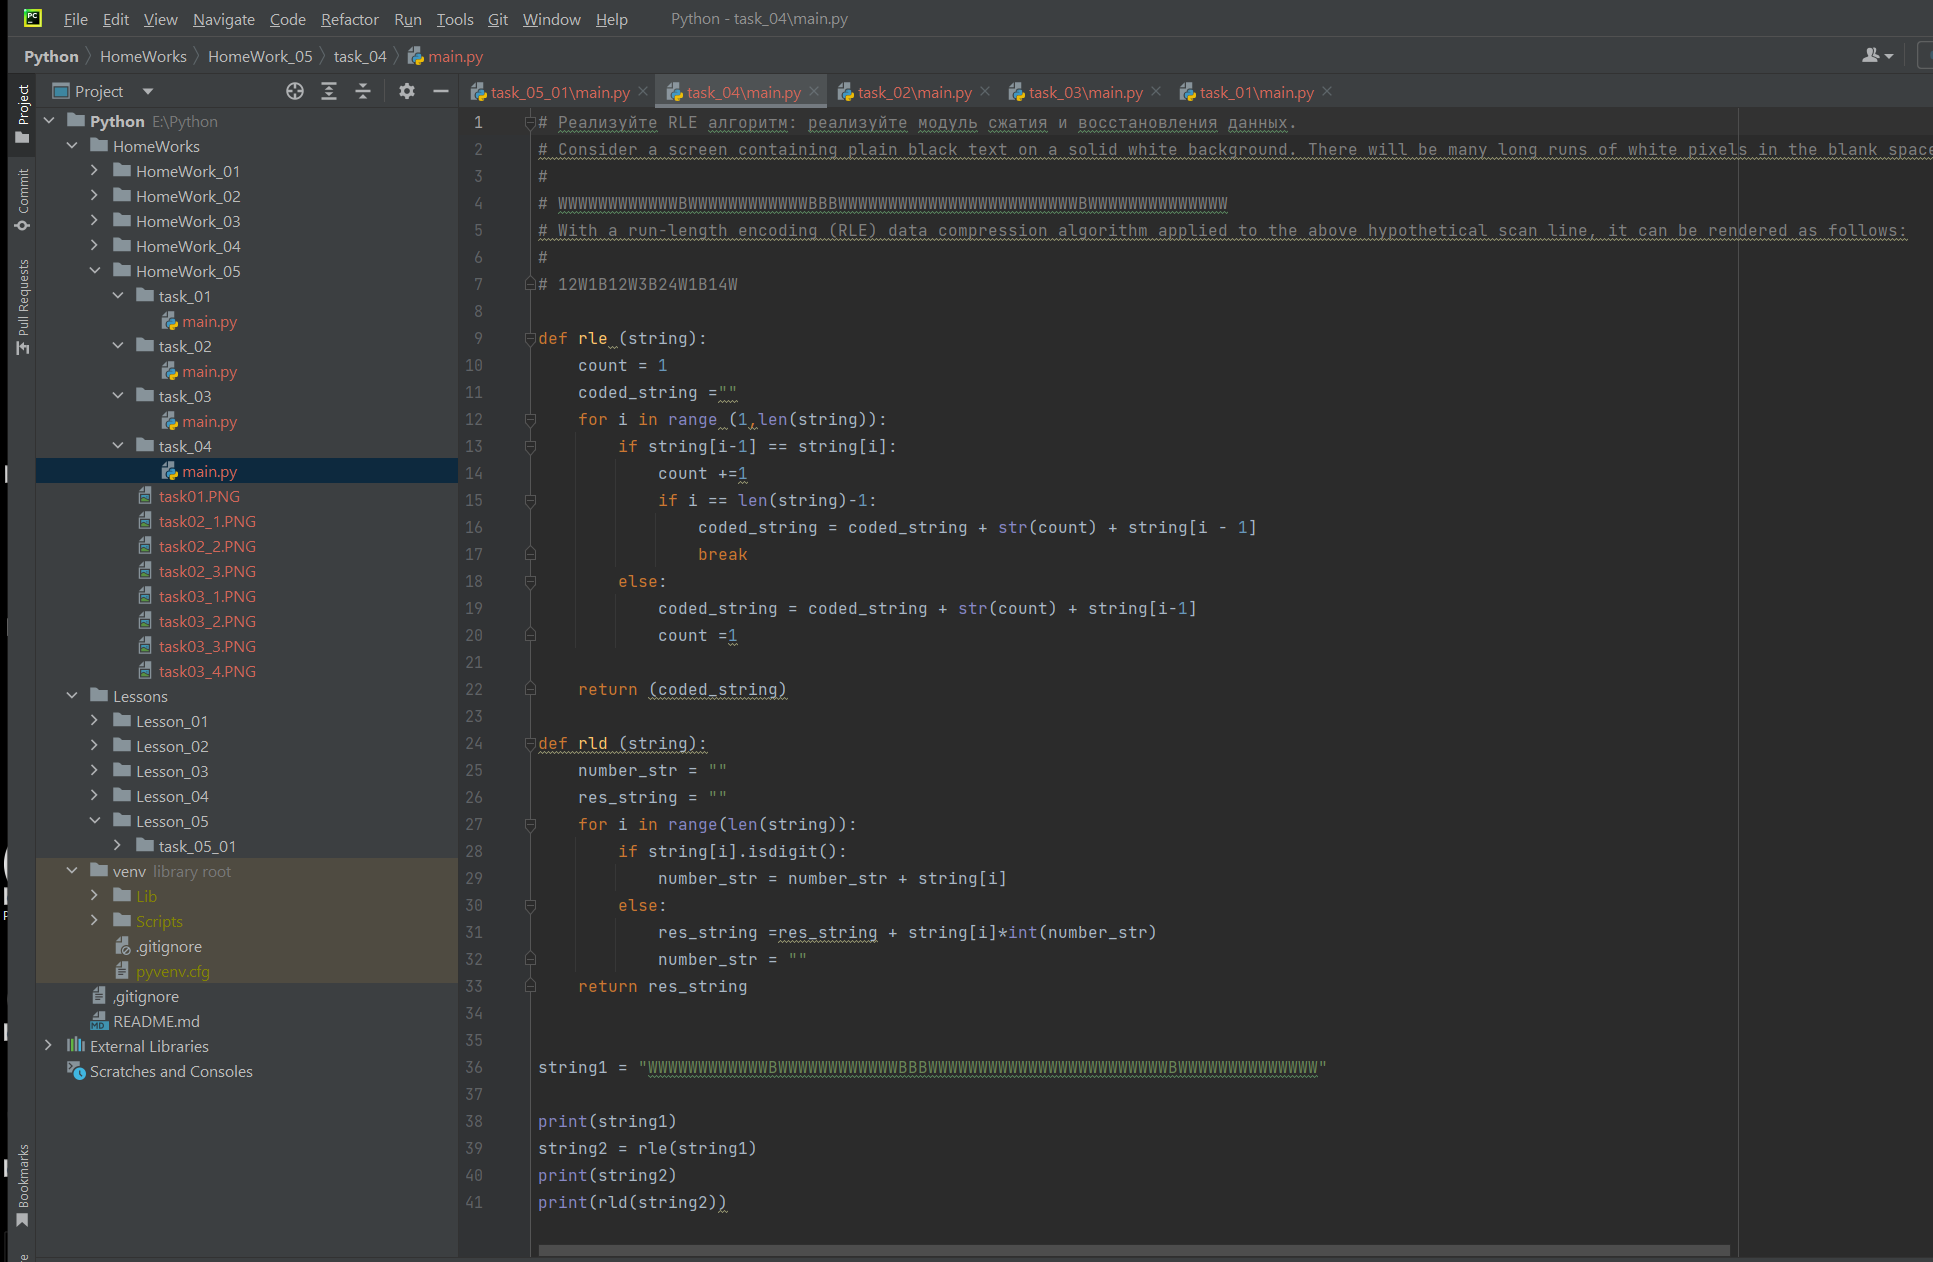
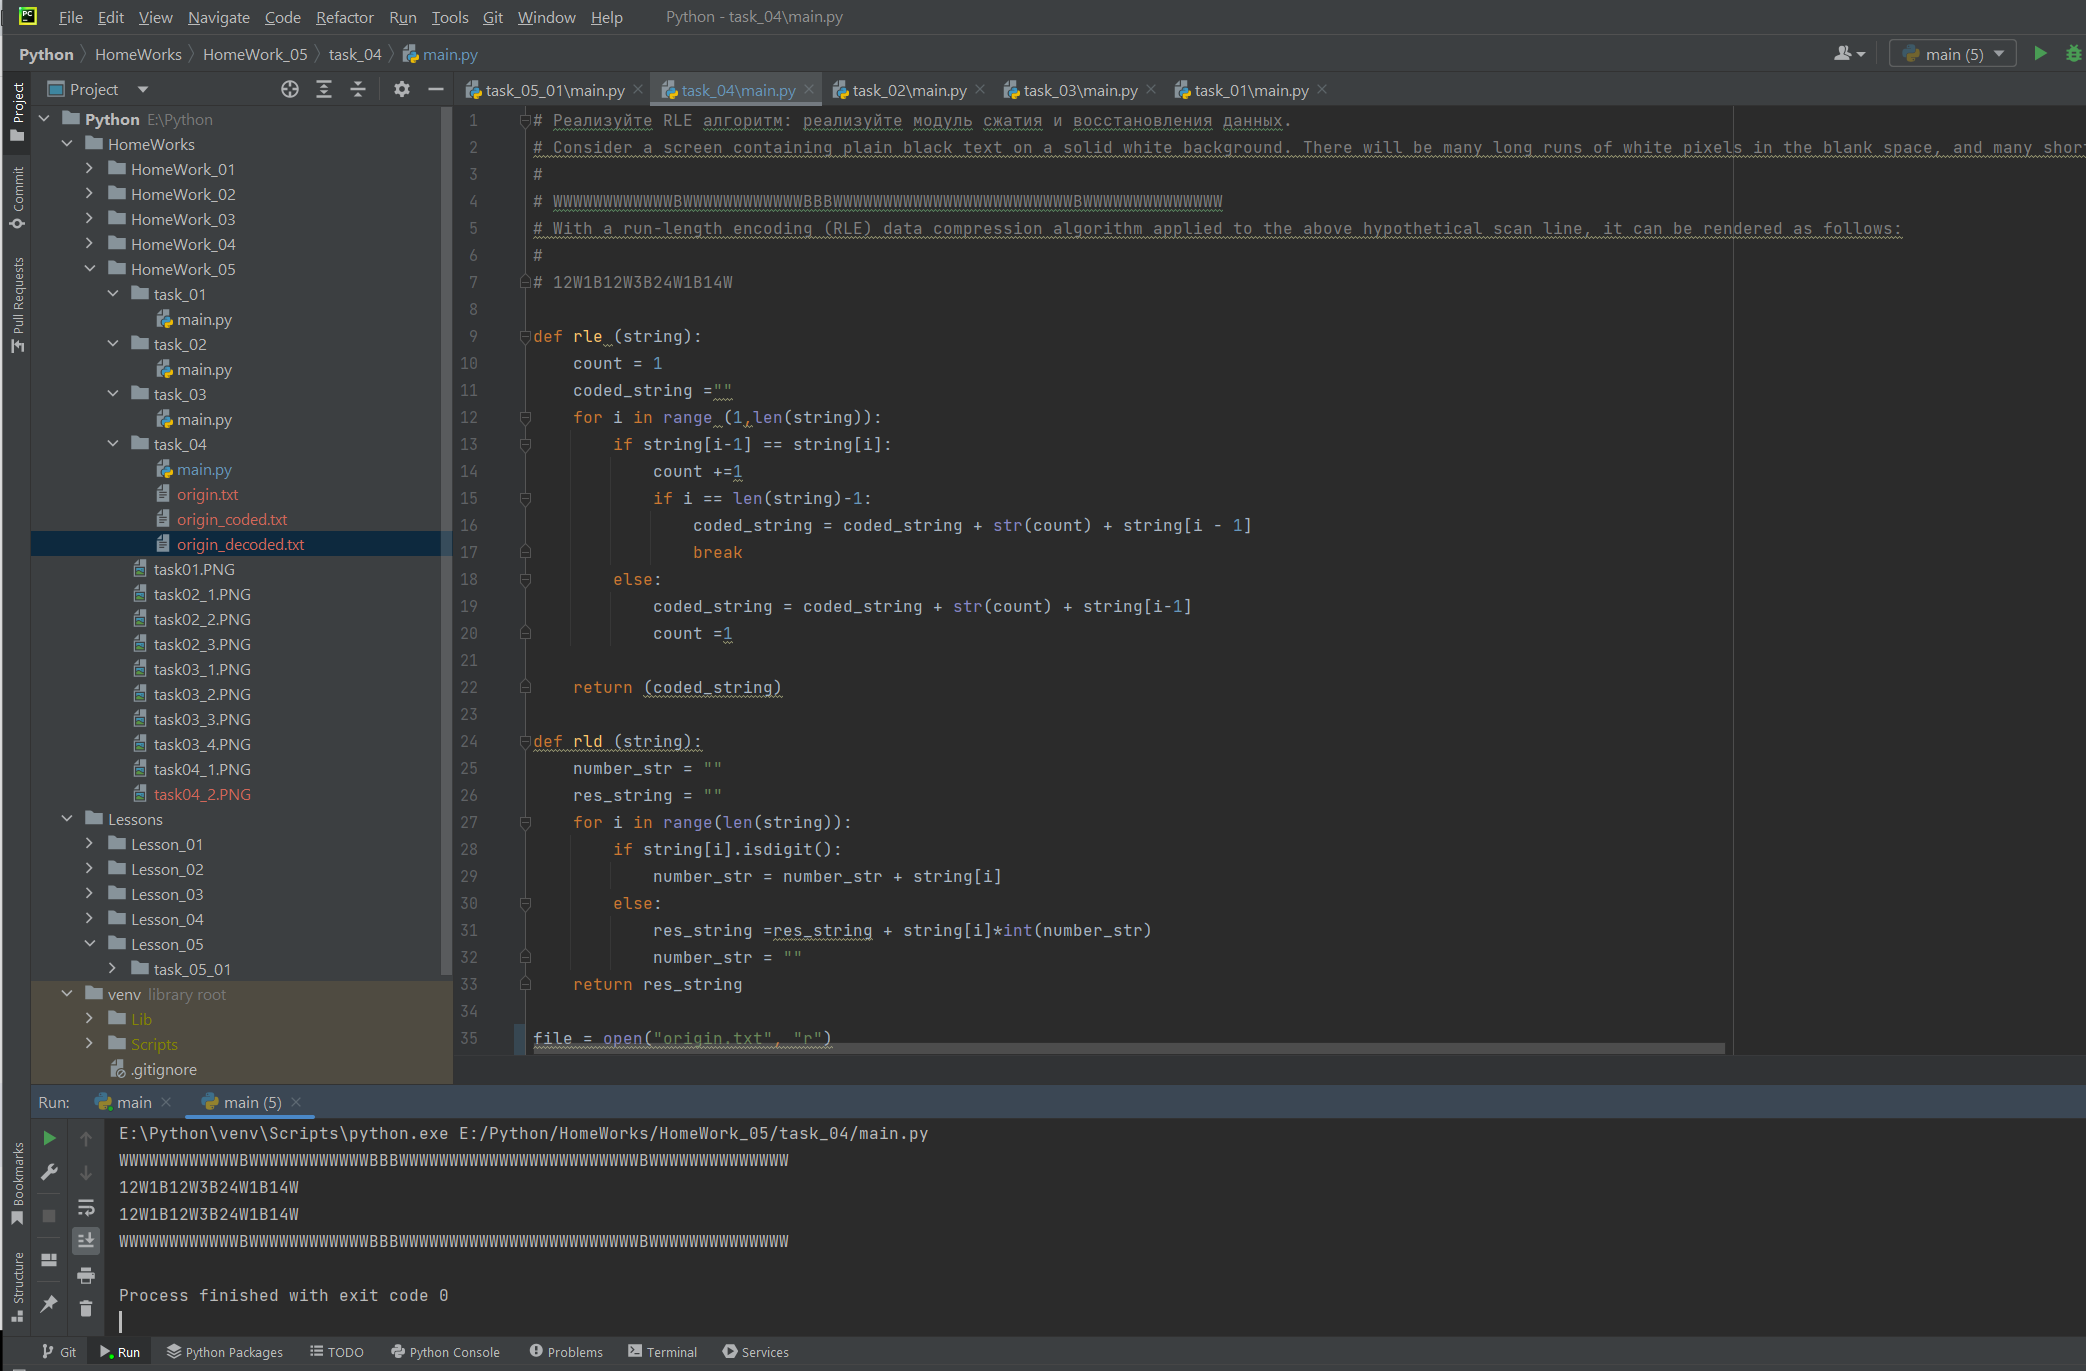
homework 05 upd

diff --git a/HomeWorks/HomeWork_05/task_04/main.py b/HomeWorks/HomeWork_05/task_04/main.py
@@ -32,10 +32,23 @@ def rld (string):
             number_str = ""
     return res_string
 
-
-string1 = "WWWWWWWWWWWWBWWWWWWWWWWWWBBBWWWWWWWWWWWWWWWWWWWWWWWWBWWWWWWWWWWWWWW"
-
+file = open("origin.txt", "r")
+string1 = file.readline()
+file.close()
 print(string1)
 string2 = rle(string1)
 print(string2)
+
+file = open("origin_coded.txt", "w")
+file.write(string2)
+file.close()
+
+file = open("origin_coded.txt", "r")
+string2 = file.readline()
+file.close()
+print(string2)
 print(rld(string2))
+
+file = open("origin_decoded.txt", "w")
+file.write(rld(string2))
+file.close()
